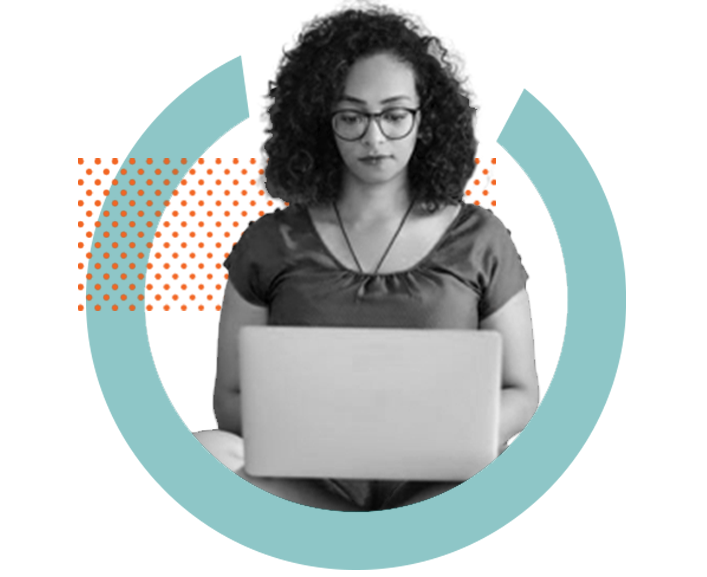
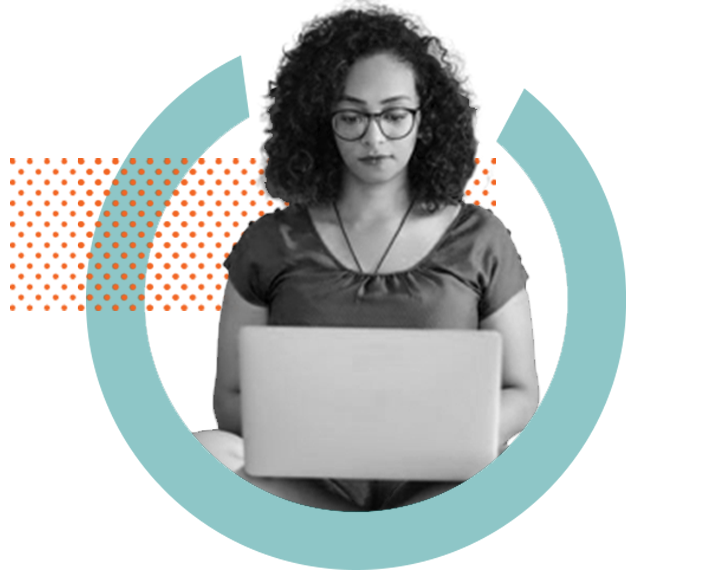
refactor: minor ui issues fixed

Changed region(s): [[0.0, 0.2496, 0.2801, 0.5615], [0.2489, 0.4367, 0.2801, 0.4679]]

diff --git a/academy.html b/academy.html
@@ -93,7 +93,7 @@
             <div class="w-full lg:w-1/2">
                 <img src="./assets/images/academy.jpg" alt="">
             </div>
-            <div class="w-full lg:w-1/2 px-10 md:px-16 py-8 md:py-0">
+            <div class="w-full lg:w-1/2 px-10 md:px-16 py-8 lg:py-0">
                 <h1
                 class="md:text-4xl text-3xl font-bold uppercase mb-4 text-center text-primary-100 flex justify-center mx-auto">
                     Our Academy
@@ -172,7 +172,7 @@
   <section class="items-center py-20 xl:py-28 flex justify-center bg-blue-50" id="our-courses">
     <div class="container mx-auto">
 
-        <div class="block lg:flex justify-between items-center">
+        <div class="block lg:flex justify-between items-center mb-10">
             <div class="mx-auto mb-12 lg:mb-0 px-8 md:px-0">
                 <p class="md:px-0 text-base md:text-lg xl:text-lg mb-1">
                     Become a certified
@@ -187,35 +187,35 @@
             </div>
 
             <div>
-                <img src="./assets/images/work-bg.png" alt="" class="w-full p-8 hidden lg:block" />
+                <img src="./assets/images/work-bg.png" alt="" class="w-full py-8 pl-8 hidden lg:block" />
             </div>
         </div>
 
-        <div class="flex flex-nowrap gap-5 justify-between overflow-x-hidden slider">
+        <div class="grid grid-cols-4 gap-5 justify-between overflow-x-hidden slider">
 
-            <div class="w-1/4 h-96" 
+            <div class="h-96" 
             style="background-image: url(./assets/images/team/noarex.jpg); background-position: center center; background-size: cover;
             background-repeat: no-repeat;">
             </div>
 
-            <div class="w-1/4 h-96 " 
+            <div class="h-96 " 
             style="background-image: url(./assets/images/team/solar.jpg); background-position: center center; background-size: cover;
             background-repeat: no-repeat;">
             </div>
 
-            <div class="w-1/4 h-96" 
+            <div class="h-96" 
             style="background-image: url(./assets/images/team/abu-hanat.jpg); background-position: center center; background-size: cover;
             background-repeat: no-repeat;">
             </div>
 
-            <div class="w-1/4 h-96" 
+            <div class="h-96" 
             style="background-image: url(./assets/images/team/abu-hanat.jpg); background-position: center center; background-size: cover;
             background-repeat: no-repeat;">
             </div>
 
         </div>
 
-        <div class="my-8">
+        <div class="mt-8">
             <p class="text-base my-4 mx-20 text-center">At Added academy, we are here to support your dreams, and help you become masters in your 
                 chosen career path. Our instructors will train, coach and mentor you.
             </p>
